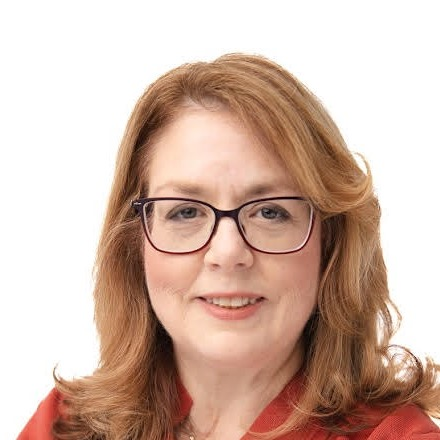
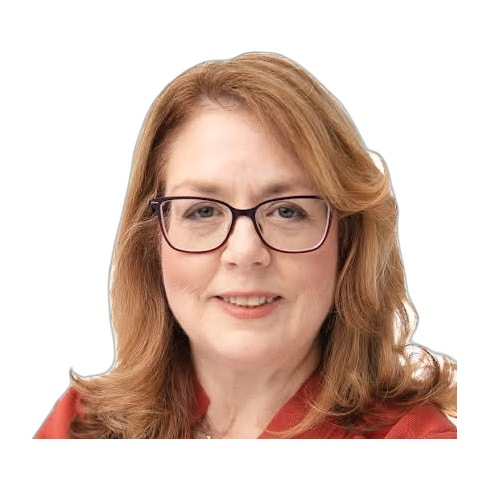
Add Amy Murro's headshot and recenter Susan Collins's photo
- Add Amy Murro's headshot to the Board of Directors (replacing the
  initials placeholder)
- Recenter Susan Collins's headshot

diff --git a/about.html b/about.html
@@ -125,7 +125,7 @@
           <span class="role">Treasurer</span>
         </div>
         <div class="board-member">
-          <div class="photo placeholder">AM</div>
+          <img class="photo" src="img/headshots/amy-murro.jpg" alt="Amy Murro">
           <span class="name">Amy Murro</span>
           <span class="role">Secretary</span>
         </div>
